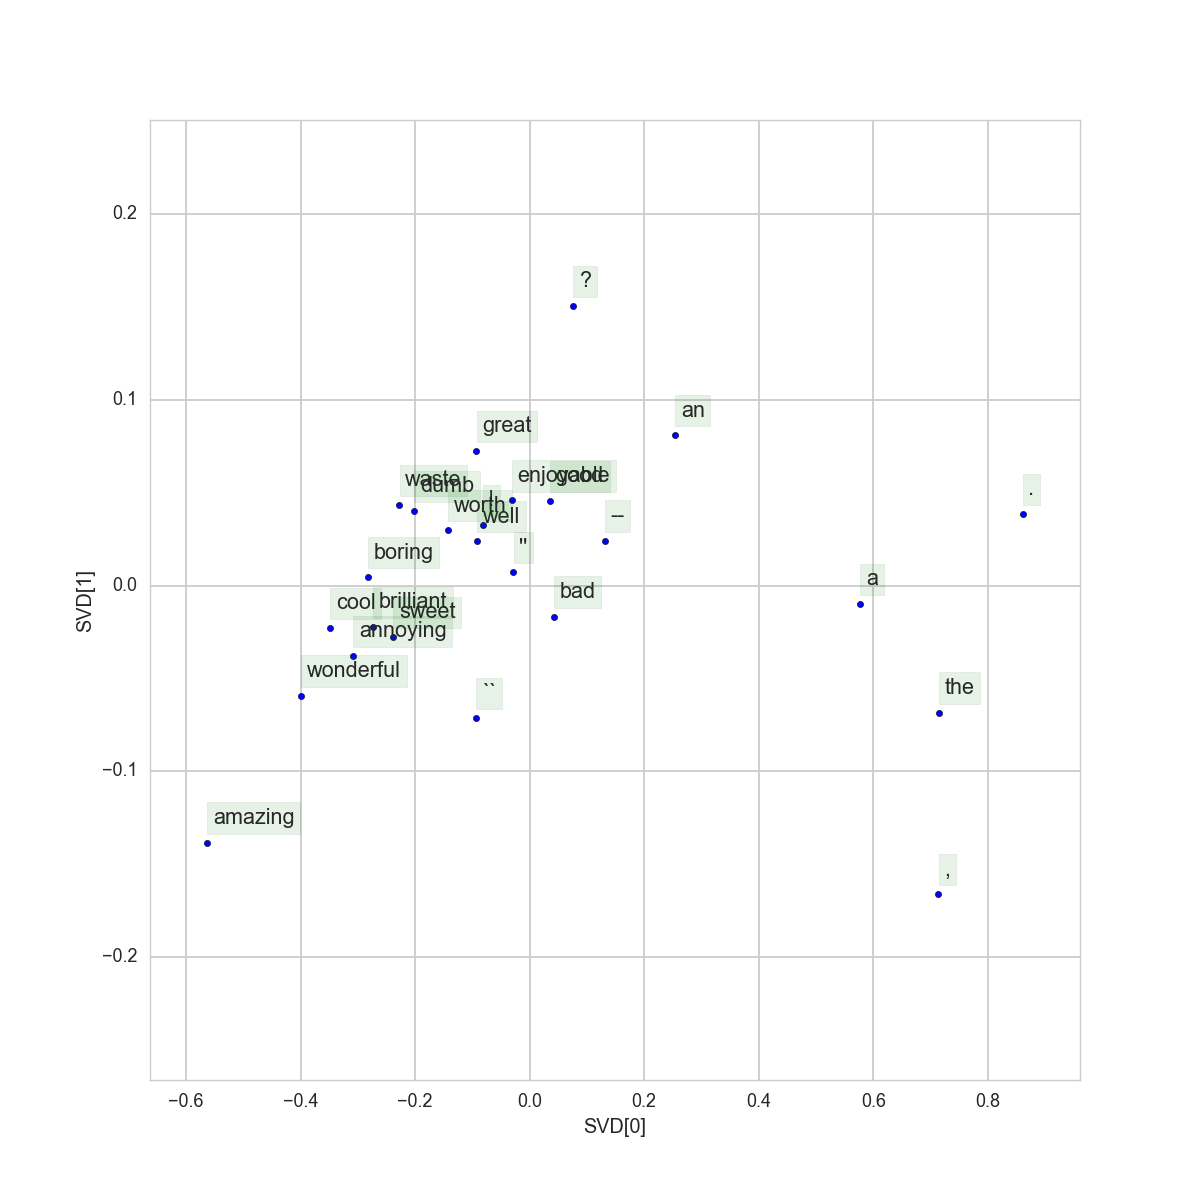
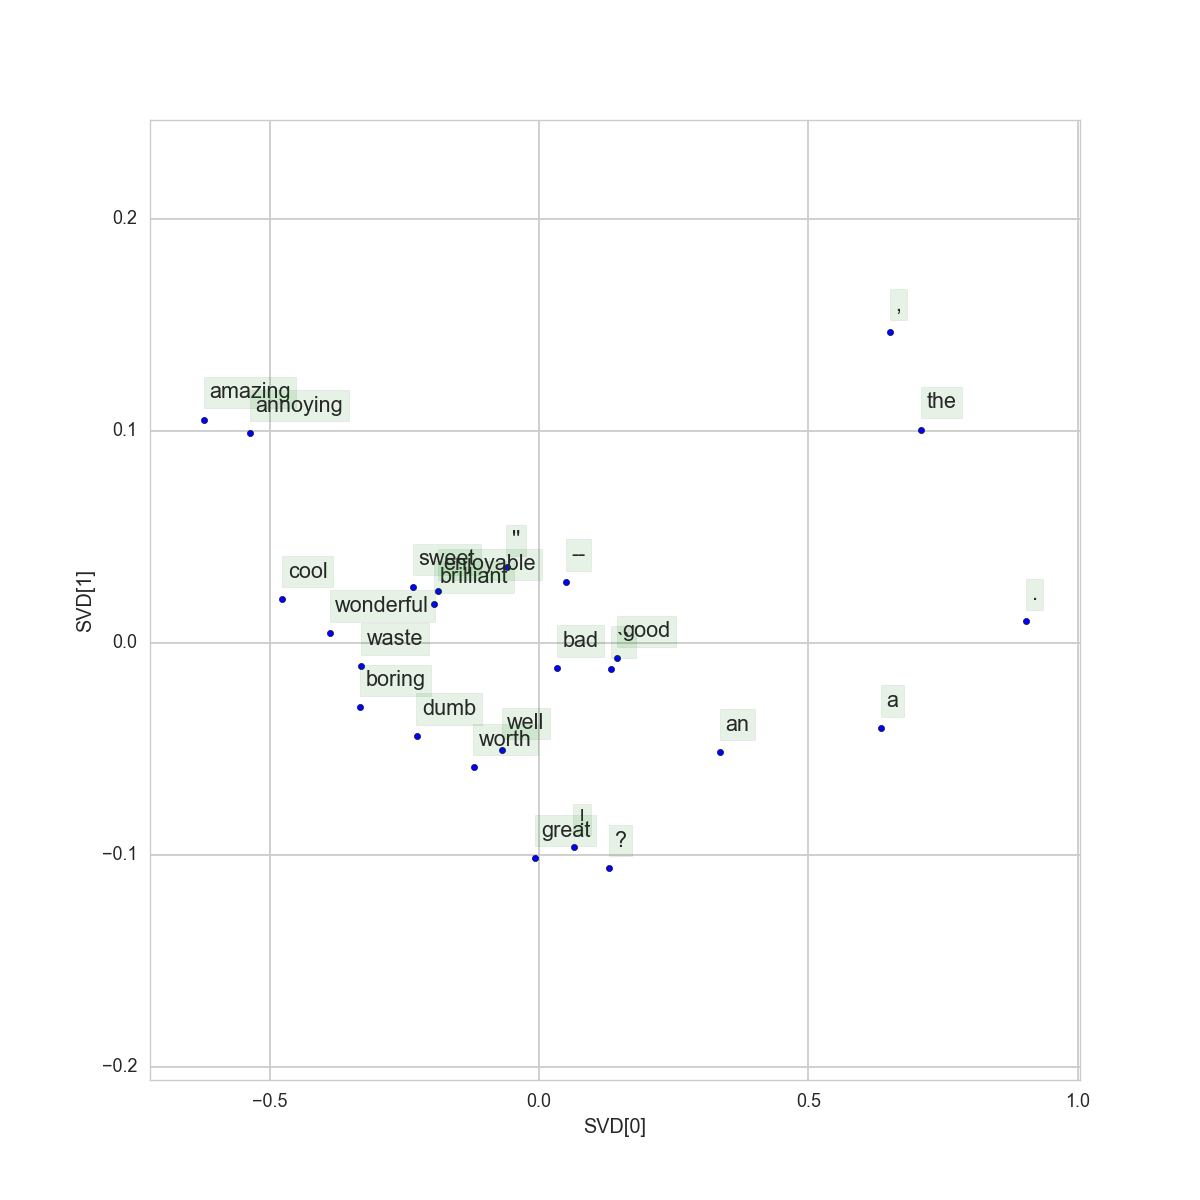
Re-ran sentiment analysis;

diff --git a/assignment1/q4_sentiment.py b/assignment1/q4_sentiment.py
@@ -13,7 +13,7 @@ sns.set(style='whitegrid', context='talk')
 # NOTE: fill in one more "your code here" below before running!
 REGULARIZATION = None   # Assign a list of floats in the block below
 ### YOUR CODE HERE
-REGULARIZATION = np.logspace(-6,0.1,41)
+REGULARIZATION = np.logspace(-6,0.1,21)
 REGULARIZATION = np.hstack([0,REGULARIZATION])
 ### END YOUR CODE
 
